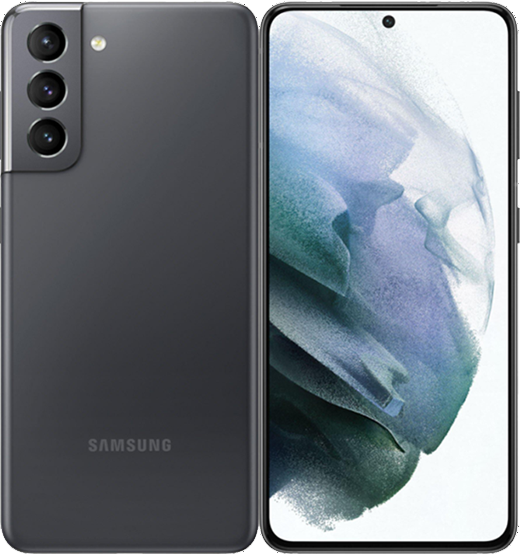
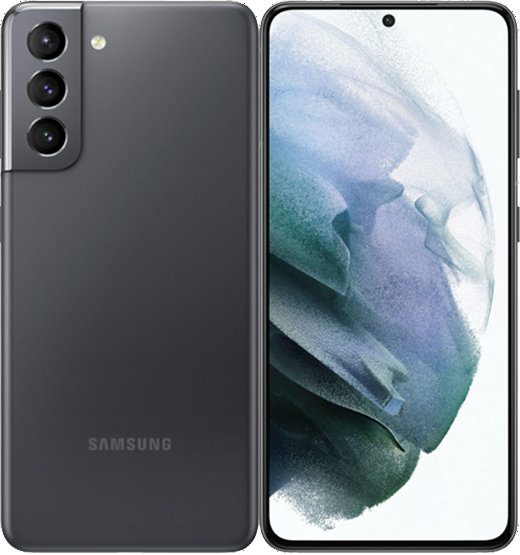
commit

diff --git a/src/index.html b/src/index.html
@@ -38,7 +38,7 @@
   </div>
   <div class="tophalf">                                                                                                                                   
     <div>
-      <nav> <a href="Iphone 11 pro max.html"><img src="../img/phones/iphone 11 pro max.PNG" class="center"height="85%" width="85%"></a></nav>
+      <nav> <a href="Iphone 11 pro max.html"><img src="../img/phones/iphone 11 pro max.PNG" class="center"height="89%" width="89%"></a></nav>
       </div>
 
      <div>
@@ -57,7 +57,7 @@
  <div class="bottomnav"><img src=""></div>
   <div class="bottomhalf">
     <div>
-      <nav> <a href="samsung s21.html"><img src="../img/phones/s21.PNG" class="center"height="100%"width="100%" ></a></nav>
+      <nav> <a href="samsung s21.html"><img src="../img/phones/samsung s21.PNG" class="center"height="100%"width="100%" ></a></nav>
       
     </div>
 
@@ -67,7 +67,7 @@
 
 
      <div>
-      <nav> <a href="foldz.html"><img src="../img/phones/Z_Fold_3_0.jpg" class="center"height="50%"width="50%"></a></nav>
+      <nav> <a href="foldz.html"><img src="../img/phones/Z_Fold_3_0.jpg" class="center"height="70%"width="50%"></a></nav>
       <p style="color:rgb(0, 0, 0);"></p>
     </div>
  </div>

diff --git a/src/store.html b/src/store.html
@@ -91,7 +91,7 @@
      </div>
 
      <div>
-      <img src="../img/phones/lg g7 thinq.PNG" class="center"height="130%" width="130%"></a></nav>
+      <img src="../img/phones/lg g7 thinq.PNG" class="center"height="130%" width="110%"></a></nav>
 
       
       

diff --git a/src/accessiores.html b/src/accessiores.html
@@ -7,7 +7,7 @@
 
 
  <body>
-  <img src="../img/phones/error-x-error.gif" style="width: 100%; height:100%;">
+  <img src="../img/comming soon page.PNG" style="width: 100%; height:100%;">
   
 
 

diff --git a/README.md b/README.md
@@ -91,6 +91,7 @@
 + Motorola g200 https://med.csmobiles.com/299404-large_default/motorola-moto-g200-5g-8gb-128gb-dual-sim-azul.jpg
 + huawei p40 pro https://m.media-amazon.com/images/I/61XM1qbUPUL._AC_SX522_.jpg
 + Lg G7 thinq https://www.starcity.pk/wp-content/uploads/2022/02/lg-g7-thinq-1.jpg
++ Samsung 21 https://www.backmarket.co.uk/second-hand-samsung-galaxy-s21-5g-128-gb-grey-unlocked/451238.html?shopping=gmc&gclid=EAIaIQobChMIxoyGk6zX9wIVh7PtCh2DjQXZEAQYAiABEgLNI_D_BwE#?l=11
 
 
 # videos
